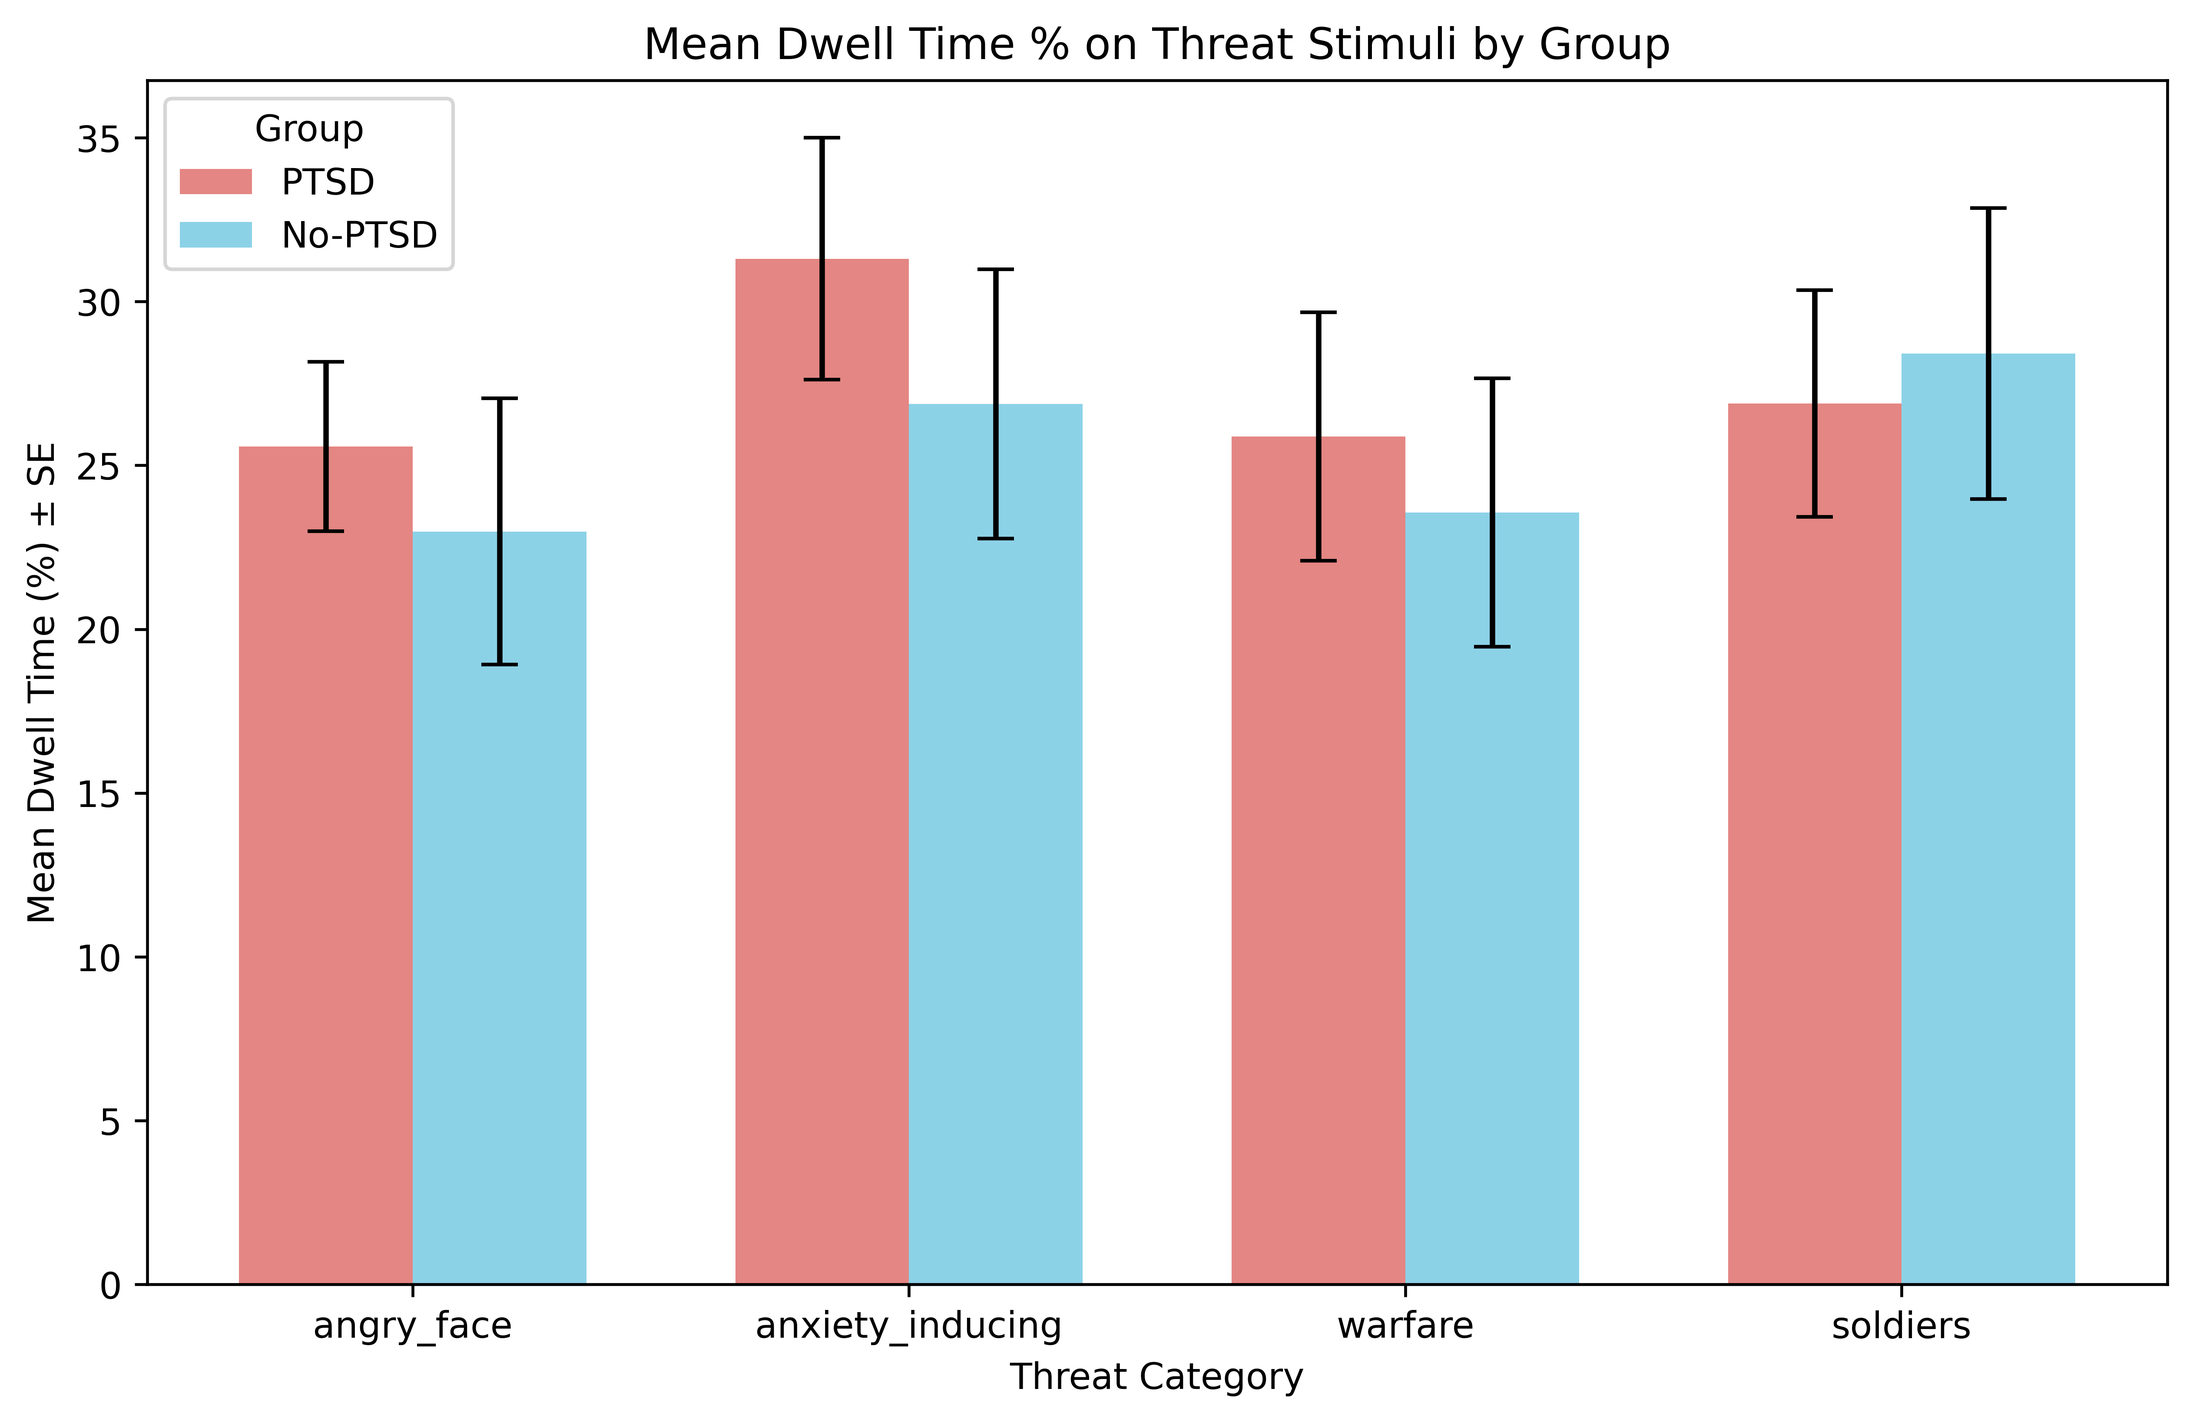
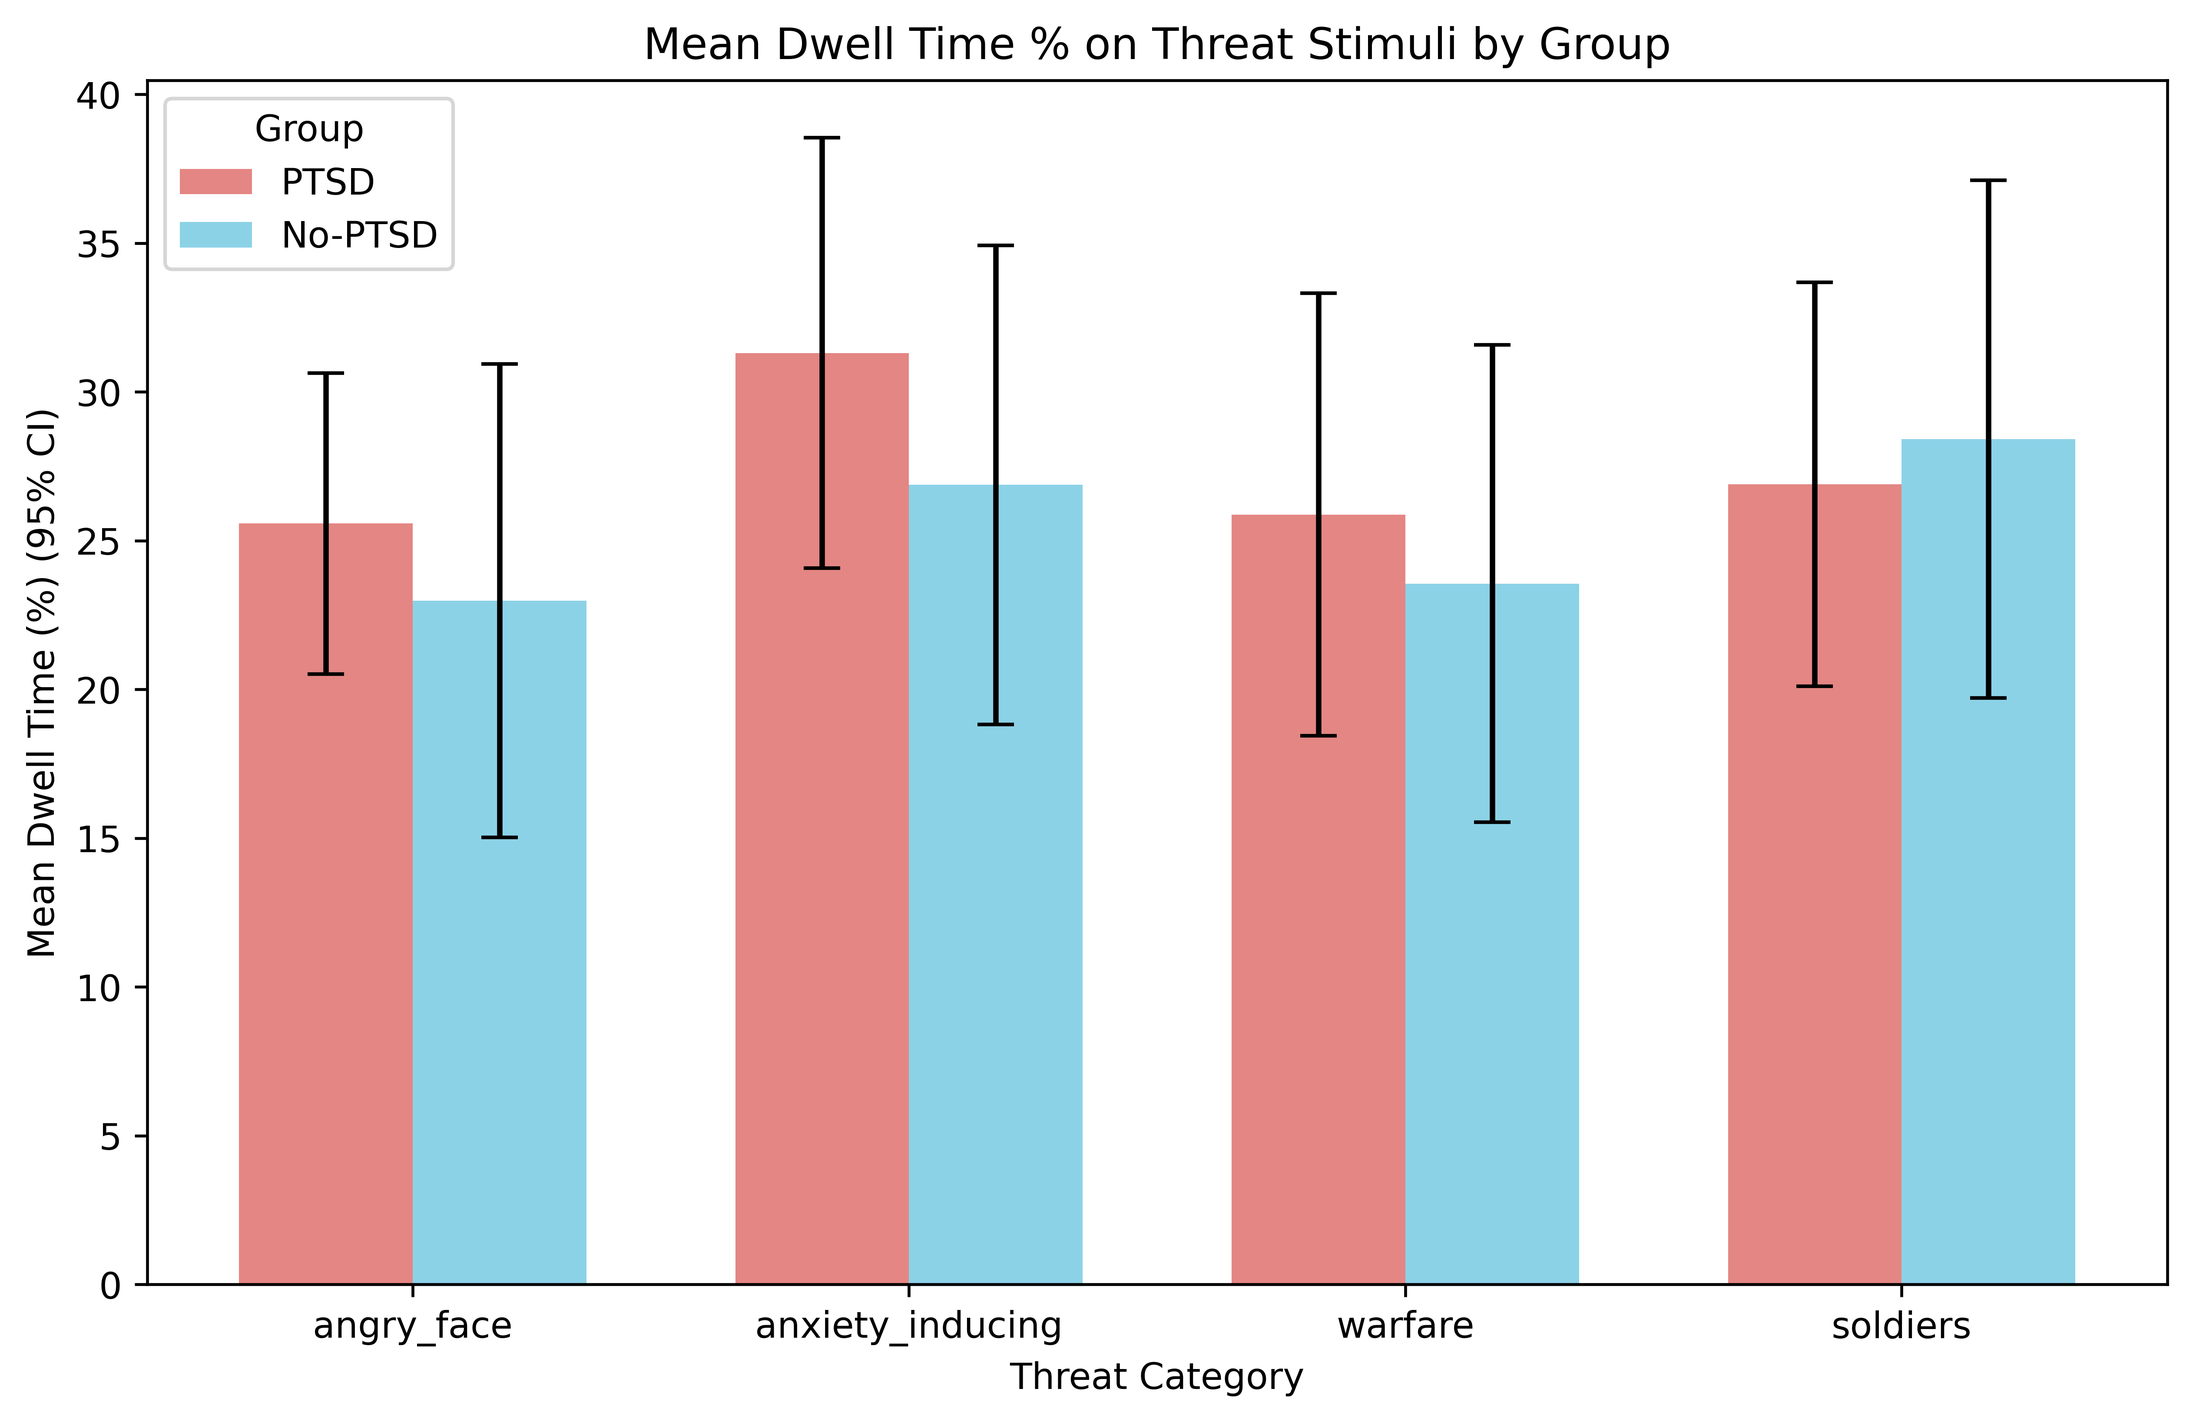
fix: update bar chart error bars from ±1 SE to ±1.96 SE (95% CI)
Aligns bar chart error bars with the 95% CIs already used in forest
plots and results tables across H1 and H2 hypothesis tests.

diff --git a/hypotheses_testing/h2_threat_dwell_variability.py b/hypotheses_testing/h2_threat_dwell_variability.py
@@ -1,14 +1,16 @@
 # %% [markdown]
-# # H1: Threat Stimulus Dwell Time by PTSD Group
+# # H2: Attention Bias Variability by PTSD Group
 #
-# **Hypothesis**: Participants in the PTSD group will show higher mean dwell time
-# percentage on threat stimuli than the no-PTSD group across pre-defined threat
-# categories.
+# **Hypothesis**: Participants in the PTSD group will show higher within-participant
+# variability (standard deviation) of dwell time percentage on threat stimuli than
+# the no-PTSD group across pre-defined threat categories. Higher variability may
+# indicate attentional dysregulation — an unstable pattern of engagement/disengagement
+# with threat.
 #
-# **Method**: Two-tailed group comparisons (PTSD vs no-PTSD) on mean dwell time
-# percentage for 4 threat categories. Test selection follows normality and
-# variance checks; p-values are corrected for multiple comparisons using
-# Benjamini-Hochberg FDR.
+# **Method**: Two-tailed group comparisons (PTSD vs no-PTSD) on within-participant
+# SD of dwell time percentage for 4 threat categories. Test selection follows
+# normality and variance checks; p-values are corrected for multiple comparisons
+# using Benjamini-Hochberg FDR.
 
 # %%
 import os
@@ -24,10 +26,10 @@ from statsmodels.stats.multitest import multipletests
 os.chdir(Path(__file__).resolve().parent.parent)
 
 THREAT_CATEGORIES = ['angry_face', 'anxiety_inducing', 'warfare', 'soldiers']
-DV_COLS = [f'mean_dwell_pct_{cat}' for cat in THREAT_CATEGORIES]
+DV_COLS = [f'std_dwell_pct_{cat}' for cat in THREAT_CATEGORIES]
 ALPHA = 0.05
 
-FIG_DIR = 'figures/h1_threat_dwell_time'
+FIG_DIR = 'figures/h2_threat_dwell_variability'
 os.makedirs(FIG_DIR, exist_ok=True)
 
 # %% [markdown]
@@ -42,7 +44,7 @@ no_ptsd = df[df['if_PTSD'] == 0]
 print(f"Total participants: {len(df)}")
 print(f"PTSD group:    n = {len(ptsd)}")
 print(f"No-PTSD group: n = {len(no_ptsd)}")
-print(f"\nThreat DV columns: {DV_COLS}")
+print(f"\nDwell variability DV columns: {DV_COLS}")
 
 # %% [markdown]
 # ## 2. Descriptive Statistics
@@ -50,7 +52,7 @@ print(f"\nThreat DV columns: {DV_COLS}")
 # %%
 desc_rows = []
 for cat in THREAT_CATEGORIES:
-    col = f'mean_dwell_pct_{cat}'
+    col = f'std_dwell_pct_{cat}'
     for group_label, group_df in [('PTSD', ptsd), ('No-PTSD', no_ptsd)]:
         vals = group_df[col].dropna()
         desc_rows.append({
@@ -74,7 +76,7 @@ print(desc_df.to_string(index=False, float_format='%.4f'))
 # %%
 assumption_rows = []
 for cat in THREAT_CATEGORIES:
-    col = f'mean_dwell_pct_{cat}'
+    col = f'std_dwell_pct_{cat}'
     ptsd_vals = ptsd[col].dropna()
     no_ptsd_vals = no_ptsd[col].dropna()
 
@@ -134,7 +136,7 @@ def rank_biserial_ci(r, nx, ny, confidence=0.95):
 
 results_rows = []
 for i, cat in enumerate(THREAT_CATEGORIES):
-    col = f'mean_dwell_pct_{cat}'
+    col = f'std_dwell_pct_{cat}'
     ptsd_vals = ptsd[col].dropna()
     no_ptsd_vals = no_ptsd[col].dropna()
     nx, ny = len(ptsd_vals), len(no_ptsd_vals)
@@ -199,7 +201,7 @@ print(results_df[display_cols].to_string(index=False, float_format='%.4f'))
 
 # %%
 print("\n" + "=" * 90)
-print("RESULTS SUMMARY — H1: Threat Dwell Time × PTSD Group")
+print("RESULTS SUMMARY — H2: Dwell Time Variability × PTSD Group")
 print("=" * 90)
 for _, r in results_df.iterrows():
     sig_label = "SIGNIFICANT" if r['Significant_BH'] else "not significant"
@@ -209,7 +211,7 @@ for _, r in results_df.iterrows():
     print(f"    {r['Effect_Size_Type']} = {r['Effect_Size']:.4f}, 95% CI [{r['CI_lo']:.4f}, {r['CI_hi']:.4f}]")
 
 any_sig = results_df['Significant_BH'].any()
-print(f"\nOverall: H1 {'supported' if any_sig else 'NOT supported'} at α = {ALPHA} (BH-corrected)")
+print(f"\nOverall: H2 {'supported' if any_sig else 'NOT supported'} at α = {ALPHA} (BH-corrected)")
 print("=" * 90)
 
 # %% [markdown]
@@ -219,26 +221,26 @@ print("=" * 90)
 plot_df = df[['if_PTSD'] + DV_COLS].copy()
 plot_df['Group'] = plot_df['if_PTSD'].map({1: 'PTSD', 0: 'No-PTSD'})
 plot_long = plot_df.melt(id_vars=['Group'], value_vars=DV_COLS,
-                          var_name='Category', value_name='Mean Dwell %')
-plot_long['Category'] = plot_long['Category'].str.replace('mean_dwell_pct_', '', regex=False)
+                          var_name='Category', value_name='SD Dwell %')
+plot_long['Category'] = plot_long['Category'].str.replace('std_dwell_pct_', '', regex=False)
 
 fig, ax = plt.subplots(figsize=(10, 6))
-sns.violinplot(data=plot_long, x='Category', y='Mean Dwell %', hue='Group',
+sns.violinplot(data=plot_long, x='Category', y='SD Dwell %', hue='Group',
                split=True, inner=None, palette={'PTSD': '#d9534f', 'No-PTSD': '#5bc0de'},
                alpha=0.4, ax=ax)
-sns.stripplot(data=plot_long, x='Category', y='Mean Dwell %', hue='Group',
+sns.stripplot(data=plot_long, x='Category', y='SD Dwell %', hue='Group',
               dodge=True, palette={'PTSD': '#d9534f', 'No-PTSD': '#5bc0de'},
               size=5, alpha=0.7, ax=ax)
 
 handles, labels = ax.get_legend_handles_labels()
 ax.legend(handles[:2], labels[:2], title='Group', loc='upper right')
-ax.set_title('Mean Dwell Time % on Threat Stimuli by PTSD Group')
+ax.set_title('SD of Dwell Time % on Threat Stimuli by PTSD Group')
 ax.set_xlabel('Threat Category')
-ax.set_ylabel('Mean Dwell Time (%)')
+ax.set_ylabel('SD of Dwell Time (%)')
 
-fig.savefig(f'{FIG_DIR}/violin_threat_dwell_by_group.png', dpi=600, bbox_inches='tight')
+fig.savefig(f'{FIG_DIR}/violin_threat_dwell_variability_by_group.png', dpi=600, bbox_inches='tight')
 plt.close(fig)
-print(f'Saved: {FIG_DIR}/violin_threat_dwell_by_group.png')
+print(f'Saved: {FIG_DIR}/violin_threat_dwell_variability_by_group.png')
 
 # %% [markdown]
 # ## 8. Visualization 2 — Forest Plot (Effect Sizes)
@@ -256,7 +258,7 @@ ax.axvline(x=0, color='grey', linestyle='--', linewidth=1)
 ax.set_yticks(y_pos)
 ax.set_yticklabels(results_df['Category'])
 ax.set_xlabel('Effect Size (with 95% CI)')
-ax.set_title('Forest Plot — Effect Sizes for Threat Dwell Time (PTSD vs No-PTSD)')
+ax.set_title('Forest Plot — Effect Sizes for Dwell Time Variability (PTSD vs No-PTSD)')
 ax.invert_yaxis()
 
 fig.savefig(f'{FIG_DIR}/forest_plot_effect_sizes.png', dpi=600, bbox_inches='tight')
@@ -269,7 +271,7 @@ print(f'Saved: {FIG_DIR}/forest_plot_effect_sizes.png')
 # %%
 bar_rows = []
 for cat in THREAT_CATEGORIES:
-    col = f'mean_dwell_pct_{cat}'
+    col = f'std_dwell_pct_{cat}'
     for group_label, group_df in [('PTSD', ptsd), ('No-PTSD', no_ptsd)]:
         vals = group_df[col].dropna()
         bar_rows.append({
@@ -298,10 +300,10 @@ ax.bar(x + width / 2, no_ptsd_means, width, yerr=no_ptsd_ci, label='No-PTSD',
 ax.set_xticks(x)
 ax.set_xticklabels(THREAT_CATEGORIES)
 ax.set_xlabel('Threat Category')
-ax.set_ylabel('Mean Dwell Time (%) (95% CI)')
-ax.set_title('Mean Dwell Time % on Threat Stimuli by Group')
+ax.set_ylabel('SD of Dwell Time (%) (95% CI)')
+ax.set_title('SD of Dwell Time % on Threat Stimuli by Group')
 ax.legend(title='Group')
 
-fig.savefig(f'{FIG_DIR}/bar_threat_dwell_by_group.png', dpi=600, bbox_inches='tight')
+fig.savefig(f'{FIG_DIR}/bar_threat_dwell_variability_by_group.png', dpi=600, bbox_inches='tight')
 plt.close(fig)
-print(f'Saved: {FIG_DIR}/bar_threat_dwell_by_group.png')
+print(f'Saved: {FIG_DIR}/bar_threat_dwell_variability_by_group.png')

diff --git a/reports/hypotheses_testing/h2_threat_dwell_variability.md b/reports/hypotheses_testing/h2_threat_dwell_variability.md
@@ -1,0 +1,97 @@
+# H2: Attention Bias Variability by PTSD Group
+
+**Notebook**: `hypotheses_testing/h2_threat_dwell_variability.py`
+
+## Hypothesis
+
+**H2**: Participants in the PTSD group will show higher within-participant variability (standard deviation) of dwell time percentage on threat stimuli than the no-PTSD group across pre-defined threat categories. Higher variability may indicate attentional dysregulation — an unstable pattern of engagement/disengagement with threat.
+
+## Method
+
+- **Participants**: 29 total (17 PTSD, 12 no-PTSD)
+- **Dependent variables**: `std_dwell_pct_{category}` for 4 threat categories: angry_face, anxiety_inducing, warfare, soldiers
+- **Group variable**: `if_PTSD` (1 = PTSD, 0 = no-PTSD)
+- **Test family**: 4 comparisons (one per threat category)
+
+### Test selection logic
+
+For each category:
+1. **Shapiro-Wilk** test on each group (α = 0.05)
+2. **Levene's test** for equality of variances (α = 0.05)
+3. If both groups pass normality AND equal variance: **Student's t-test**
+4. If both groups pass normality BUT unequal variance: **Welch's t-test**
+5. If either group fails normality: **Mann-Whitney U test**
+
+### Effect sizes
+
+- **Cohen's d** for Student's and Welch's t-tests (with pooled SD)
+- **Rank-biserial r** for Mann-Whitney U (computed from U statistic)
+- 95% confidence intervals for all effect sizes
+
+### Multiple comparison correction
+
+Benjamini-Hochberg (FDR) applied across the 4 p-values.
+
+## Results
+
+### Descriptive statistics
+
+| Category         | Group   |  n |   Mean |     SD | Median |    Min |    Max |
+|------------------|---------|---:|-------:|-------:|-------:|-------:|-------:|
+| angry_face       | PTSD    | 17 | 16.785 |  4.997 | 15.277 |  9.472 | 27.196 |
+| angry_face       | No-PTSD | 12 | 13.140 |  4.563 | 12.220 |  7.300 | 22.622 |
+| anxiety_inducing | PTSD    | 17 | 18.663 |  6.033 | 17.099 | 10.205 | 30.466 |
+| anxiety_inducing | No-PTSD | 12 | 15.437 |  3.661 | 15.903 |  8.898 | 20.589 |
+| warfare          | PTSD    | 17 | 15.926 |  6.338 | 14.571 |  7.249 | 30.599 |
+| warfare          | No-PTSD | 12 | 15.670 |  6.008 | 15.561 |  5.810 | 28.318 |
+| soldiers         | PTSD    | 17 | 17.571 |  6.306 | 17.910 |  6.625 | 30.104 |
+| soldiers         | No-PTSD | 12 | 17.619 |  5.818 | 18.285 |  5.145 | 28.378 |
+
+### Assumption checks
+
+| Category         | Shapiro PTSD (W, p) | Shapiro No-PTSD (W, p) | Levene (F, p) | Both Normal | Equal Var |
+|------------------|---------------------|------------------------|---------------|:-----------:|:---------:|
+| angry_face       | 0.939, 0.307        | 0.947, 0.592           | 0.153, 0.699  | Yes         | Yes       |
+| anxiety_inducing | 0.909, 0.097        | 0.967, 0.875           | 1.179, 0.287  | Yes         | Yes       |
+| warfare          | 0.953, 0.505        | 0.976, 0.959           | 0.077, 0.784  | Yes         | Yes       |
+| soldiers         | 0.972, 0.857        | 0.949, 0.616           | 0.239, 0.629  | Yes         | Yes       |
+
+All groups passed both normality and equal-variance assumptions, so Student's t-test was used for all four categories.
+
+### Primary results (BH-corrected)
+
+| Category         | Test             | Statistic | p (uncorr) | p (BH)  | Effect Size       | 95% CI            | Significant |
+|------------------|------------------|----------:|------------|---------|-------------------|-------------------|:-----------:|
+| angry_face       | Student's t-test |     2.004 | 0.055      | 0.221   | d = 0.756         | [−0.526, 2.037]   | No          |
+| anxiety_inducing | Student's t-test |     1.646 | 0.111      | 0.223   | d = 0.621         | [−0.513, 1.755]   | No          |
+| warfare          | Student's t-test |     0.109 | 0.914      | 0.984   | d = 0.041         | [−0.700, 0.782]   | No          |
+| soldiers         | Student's t-test |    −0.021 | 0.984      | 0.984   | d = −0.008        | [−0.747, 0.731]   | No          |
+
+**No category reached significance after BH correction** (all p_BH ≥ 0.221).
+
+### Secondary results (uncorrected)
+
+Even without multiple comparison correction, no category reached significance at α = 0.05. The closest was angry_face (p = 0.055), which showed a medium-to-large effect size (d = 0.76) that was marginally non-significant. The anxiety_inducing category also showed a medium effect (d = 0.62, p = 0.111). Warfare and soldiers showed negligible effects (|d| < 0.05).
+
+### Figures
+
+#### Violin + strip plot
+![Violin plot](../../figures/h2_threat_dwell_variability/violin_threat_dwell_variability_by_group.png)
+
+#### Forest plot — effect sizes
+![Forest plot](../../figures/h2_threat_dwell_variability/forest_plot_effect_sizes.png)
+
+#### Bar chart — group means (95% CI)
+![Bar chart](../../figures/h2_threat_dwell_variability/bar_threat_dwell_variability_by_group.png)
+
+## Conclusion
+
+**H2 is NOT supported.** There were no statistically significant differences in within-participant dwell time variability on threat stimuli between the PTSD and no-PTSD groups for any of the four threat categories, either before or after Benjamini-Hochberg correction.
+
+However, unlike H1 (which found uniformly small effects), H2 revealed a notable pattern: the angry_face and anxiety_inducing categories showed medium-to-large effect sizes (d = 0.76 and d = 0.62, respectively), with the PTSD group exhibiting higher variability. The angry_face comparison approached significance at the uncorrected level (p = 0.055). This directional pattern — greater attentional instability toward emotionally salient threat stimuli — is consistent with the attentional dysregulation framework, but the current sample lacks sufficient power to confirm the effect.
+
+### Caveats
+
+- **Small sample size**: With n = 17 (PTSD) and n = 12 (no-PTSD), statistical power is limited. The medium-to-large effect sizes for angry_face and anxiety_inducing suggest that a larger sample might detect significant differences.
+- **Multiple testing**: BH correction substantially increased p-values for the two trending categories (0.055 → 0.221, 0.111 → 0.223), moving them further from significance.
+- **Variability as a DV**: Within-participant SD of dwell time may be influenced by the number of trials per category. If trial counts vary across participants or categories, this could introduce noise into the variability estimates.

diff --git a/.claude/skills/hypothesis-testing.md b/.claude/skills/hypothesis-testing.md
@@ -44,7 +44,7 @@ Cell 7  [code]     - BH correction, results table
 Cell 8  [code]     - Results summary (formatted console output)
 Cell 9  [code]     - Visualization 1: Violin + strip plot
 Cell 10 [code]     - Visualization 2: Forest plot (effect sizes + CIs)
-Cell 11 [code]     - Visualization 3: Bar chart (group means +/- SE)
+Cell 11 [code]     - Visualization 3: Bar chart (group means with 95% CI)
 ```
 
 ### Required imports
@@ -117,7 +117,7 @@ Include these in the notebook for effect size computation:
 - Three standard plots per hypothesis:
   1. Violin + strip plot (split violins, individual points)
   2. Forest plot (effect sizes with 95% CIs, reference line at 0)
-  3. Bar chart (group means with SE error bars)
+  3. Bar chart (group means with 95% CI error bars)
 
 ## Reference Implementation
 

diff --git a/reports/hypotheses_testing/h1_threat_dwell_time.md b/reports/hypotheses_testing/h1_threat_dwell_time.md
@@ -81,7 +81,7 @@ Even without multiple comparison correction, no category reached significance (a
 #### Forest plot — effect sizes
 ![Forest plot](../../figures/h1_threat_dwell_time/forest_plot_effect_sizes.png)
 
-#### Bar chart — group means ± SE
+#### Bar chart — group means (95% CI)
 ![Bar chart](../../figures/h1_threat_dwell_time/bar_threat_dwell_by_group.png)
 
 ## Conclusion
